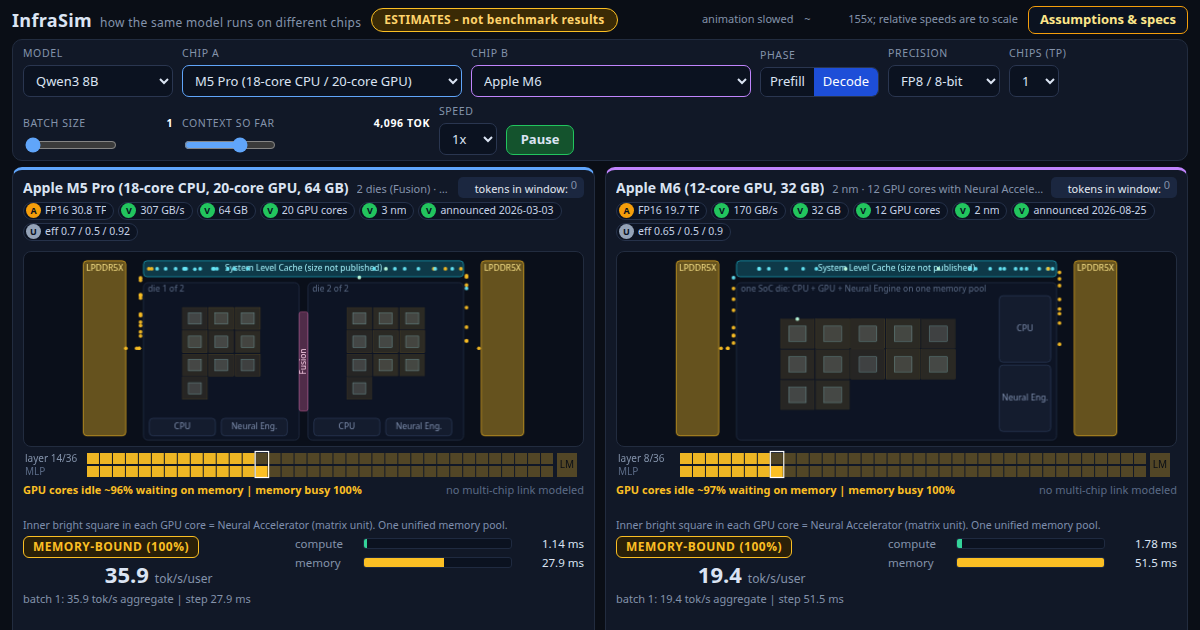
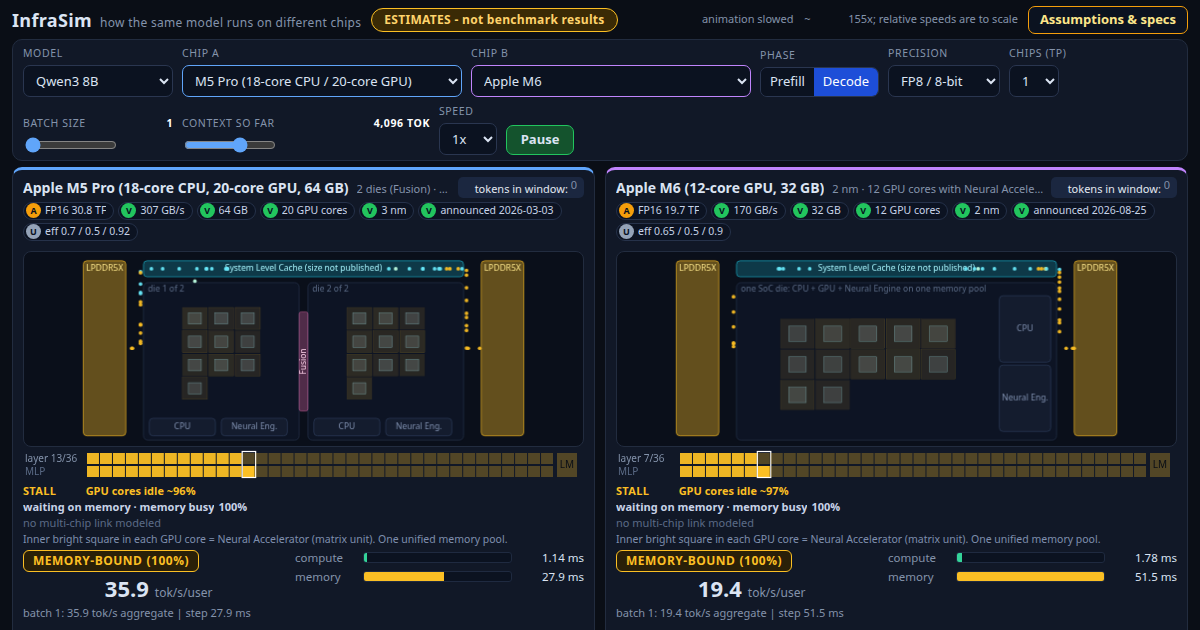
Keep the InfraSim status line on fixed rows. (#62)
Split the stall sentence into a badge, a percentage with a fixed width, a cause line, and a separate link note so the panels do not reflow while the animation runs.

diff --git a/infrasim/app/infrasim.html b/infrasim/app/infrasim.html
@@ -70,9 +70,23 @@ input[type=range]{width:92px;accent-color:#60a5fa}
 canvas{display:block;width:100%}
 .cv{background:#0a0f1a;border:1px solid var(--line);border-radius:8px;margin-top:5px}
 .strip{margin-top:3px}
-.status{font-size:11px;font-weight:700;height:34px;margin-top:3px;display:flex;justify-content:space-between;align-items:flex-start;gap:8px;overflow:hidden;flex:none;font-variant-numeric:tabular-nums}
-.status .st{flex:1;min-width:0;overflow:hidden;display:-webkit-box;-webkit-line-clamp:2;-webkit-box-orient:vertical}
-.status .ic{flex:none;max-width:46%;font-weight:500;color:#5b6b86;white-space:nowrap;overflow:hidden;text-overflow:ellipsis}
+.status{height:48px;margin-top:3px;display:flex;flex-direction:column;overflow:hidden;flex:none;font-size:11px;font-weight:700;line-height:16px;font-variant-numeric:tabular-nums}
+.st-row,.st-cause,.st-link{height:16px;line-height:16px;white-space:nowrap;overflow:hidden;text-overflow:ellipsis;flex:none}
+.st-row{display:flex;align-items:baseline;gap:6px;min-width:0}
+.st-badge{flex:none;display:inline-block;width:9ch;white-space:nowrap;overflow:hidden;letter-spacing:.3px}
+.st-badge.dim{opacity:0}
+.st-main{display:flex;align-items:baseline;min-width:0;flex:1}
+.st-phrase{flex:0 1 auto;min-width:0;white-space:nowrap;overflow:hidden;text-overflow:ellipsis}
+.st-pct,.st-cause-pct{flex:none;display:inline-block;width:5ch;text-align:left;font-variant-numeric:tabular-nums;white-space:nowrap}
+.st-pct:empty,.st-cause-pct:empty{width:0}
+.st-cause{display:flex;align-items:baseline;gap:4px;min-width:0;font-weight:600;color:#c8d3e8}
+.st-cause-txt,.st-cause-tail{min-width:0;white-space:nowrap;overflow:hidden;text-overflow:ellipsis}
+.st-cause-txt{flex:0 1 auto}
+.st-cause-tail{flex:1 1 auto}
+.st-link{display:flex;align-items:baseline;gap:8px;min-width:0;font-weight:500;color:#5b6b86}
+.st-link-name{flex:1;min-width:0;white-space:nowrap;overflow:hidden;text-overflow:ellipsis}
+.st-link-pct{flex:none;width:12ch;text-align:right;font-variant-numeric:tabular-nums;white-space:nowrap;visibility:hidden}
+.st-link-pct.on{visibility:visible;color:#f472b6}
 .chipnote{font-size:10.5px;color:#7f8fae;height:16px;line-height:16px;white-space:nowrap;overflow:hidden;text-overflow:ellipsis;flex:none}
 .stats{margin-top:3px;flex:none}
 .resultslot{position:relative}
@@ -193,7 +207,7 @@ pre.formulas{overflow-x:auto;background:#080d17;border:1px solid #1f2a40;border-
   .ptitle b{max-width:100%}
   .ptitle span{flex-basis:100%;white-space:normal;order:3;display:-webkit-box;-webkit-line-clamp:2;-webkit-box-orient:vertical}
   .tokc{margin-left:auto}
-  .status{height:54px}
+  .status{height:48px}
   .big{font-size:21px}
   .ribbon{top:12px;right:-40px;font-size:9px}
 }
@@ -566,7 +580,8 @@ function mkSide(key){
   const side={key,color:key==='A'?'#60a5fa':'#c084fc',prog:0,done:false,parts:[],acc:0,flash:null,ph:null,layout:null,chipId:null,sel:null};
   const p=$('p'+key);
   p.innerHTML='<div class="ribbon" aria-hidden="true">SPECULATIVE PROJECTION</div><div class="ptitle"><b></b><span></span><em class="tokc" aria-hidden="true">tokens in window: <span class="tokc-n">0</span></em></div>'+
-   '<div class="pills"></div><div class="pdetail"></div><canvas class="cv"></canvas><canvas class="strip"></canvas><div class="status"><span class="st"></span><span class="ic"></span></div><div class="chipnote"></div>'+
+   '<div class="pills"></div><div class="pdetail"></div><canvas class="cv"></canvas><canvas class="strip"></canvas>'+
+   '<div class="status"><div class="st-row"><span class="st-badge">STALL</span><span class="st-main"><span class="st-phrase"></span><span class="st-pct">100%</span></span></div><div class="st-cause"><span class="st-cause-txt"></span><span class="st-cause-pct">100%</span><span class="st-cause-tail"></span></div><div class="st-link"><span class="st-link-name">no multi-chip link modeled</span><span class="st-link-pct">100% of step</span></div></div><div class="chipnote"></div>'+
    '<div class="stats"><div class="resultslot">'+
    '<div class="rview final"><div class="l"><span class="badge"><span class="bd-name"></span><span class="bd-pct"></span></span><div class="big"><span class="n">0</span><small class="unit"></small><small class="hyp"> (hypothetical)</small></div><div class="sub s1"></div><div class="rng"><div class="rt"></div><div class="rtrack"><div class="rband"></div><div class="rmid"></div><div class="rceil"></div></div></div></div>'+
    '<div class="bars">'+
@@ -791,16 +806,23 @@ function drawSide(s,tm){
     ctx.fillStyle=f<0.28?'rgba(251,191,36,.95)':(f<0.62?'rgba(103,232,249,.95)':'rgba(190,255,225,.95)');
     ctx.globalAlpha=r.oom?0.45:1;ctx.beginPath();ctx.arc(x,y,1.7/Math.max(0.6,sc*1.2)+0.6,0,6.283);ctx.fill();ctx.globalAlpha=1;
   }
-  // HTML status line (readable at any size)
-  let msg,mc;
-  if(r.oom){msg='X OOM: weights + KV do not fit, would not run';mc='#fca5a5';}
-  else if(s.done){msg='done in '+fmtT(r.total)+' - waiting for the other chip';mc='#8493ab';}
-  else if(sg.tm>=sg.tc){const stall=Math.round((1-cu)*100);msg=((tm*2.2)%2<1.3?'STALL ':'')+c.unitName+'s idle ~'+stall+'% waiting on memory | memory busy 100%';mc='#fbbf24';}
-  else {msg='COMPUTE-BOUND: '+c.unitName+'s ~'+Math.round(cu*100)+'% busy | memory busy '+Math.round(mu*100)+'% (headroom)';mc='#34d399';}
-  const stEl=s.root.querySelector('.st'),icEl=s.root.querySelector('.status .ic');
-  if(stEl._m!==msg){stEl._m=msg;stEl.textContent=msg;stEl.style.color=mc;}
-  const icm=(c.ic?c.icName+' '+c.ic+' GB/s':'no multi-chip link modeled')+(commGlow>0.05?'  '+Math.round(commGlow*100)+'% of step':'');
-  if(icEl._m!==icm){icEl._m=icm;icEl.textContent=icm;icEl.style.color=commGlow>0.05?'#f472b6':'';}
+  // Fixed status rows. The badge blinks with opacity so the phrase never shifts, and the link note stays on its own row.
+  const put=(el,v)=>{if(el.textContent!==v)el.textContent=v;};
+  const badge=s.root.querySelector('.st-badge'),phrase=s.root.querySelector('.st-phrase'),pct=s.root.querySelector('.st-pct');
+  const cause=s.root.querySelector('.st-cause-txt'),causePct=s.root.querySelector('.st-cause-pct'),causeTail=s.root.querySelector('.st-cause-tail');
+  let badgeText,phraseText,pctText,causeText,causePctText,causeTailText,mc;
+  if(r.oom){badgeText='OOM';phraseText='weights + KV do not fit';pctText='';causeText='would not run';causePctText='';causeTailText='';mc='#fca5a5';}
+  else if(s.done){badgeText='DONE';phraseText='done in '+fmtT(r.total);pctText='';causeText='waiting for the other chip';causePctText='';causeTailText='';mc='#8493ab';}
+  else if(sg.tm>=sg.tc){badgeText='STALL';phraseText=c.unitName+'s idle ~';pctText=Math.round((1-cu)*100)+'%';causeText='waiting on memory · memory busy';causePctText='100%';causeTailText='';mc='#fbbf24';}
+  else {badgeText='COMPUTE';phraseText=c.unitName+'s busy ~';pctText=Math.round(cu*100)+'%';causeText='memory busy';causePctText=Math.round(mu*100)+'%';causeTailText='· headroom';mc='#34d399';}
+  put(badge,badgeText);put(phrase,phraseText);put(pct,pctText);put(cause,causeText);put(causePct,causePctText);put(causeTail,causeTailText);
+  badge.classList.toggle('dim', badgeText==='STALL' && (tm*2.2)%2>=1.3);
+  s.root.querySelector('.st-row').style.color=mc;
+  const linkName=s.root.querySelector('.st-link-name'),linkPct=s.root.querySelector('.st-link-pct');
+  put(linkName, c.ic ? c.icName+' '+c.ic+' GB/s' : 'no multi-chip link modeled');
+  const showComm=commGlow>0.05;
+  put(linkPct, showComm ? Math.round(commGlow*100)+'% of step' : '100% of step');
+  linkPct.classList.toggle('on', showComm);
   drawStrip(s,cur,tm);
 }
 function drawStrip(s,cur,tm){

diff --git a/infrasim/index.html b/infrasim/index.html
@@ -70,9 +70,23 @@ input[type=range]{width:92px;accent-color:#60a5fa}
 canvas{display:block;width:100%}
 .cv{background:#0a0f1a;border:1px solid var(--line);border-radius:8px;margin-top:5px}
 .strip{margin-top:3px}
-.status{font-size:11px;font-weight:700;height:34px;margin-top:3px;display:flex;justify-content:space-between;align-items:flex-start;gap:8px;overflow:hidden;flex:none;font-variant-numeric:tabular-nums}
-.status .st{flex:1;min-width:0;overflow:hidden;display:-webkit-box;-webkit-line-clamp:2;-webkit-box-orient:vertical}
-.status .ic{flex:none;max-width:46%;font-weight:500;color:#5b6b86;white-space:nowrap;overflow:hidden;text-overflow:ellipsis}
+.status{height:48px;margin-top:3px;display:flex;flex-direction:column;overflow:hidden;flex:none;font-size:11px;font-weight:700;line-height:16px;font-variant-numeric:tabular-nums}
+.st-row,.st-cause,.st-link{height:16px;line-height:16px;white-space:nowrap;overflow:hidden;text-overflow:ellipsis;flex:none}
+.st-row{display:flex;align-items:baseline;gap:6px;min-width:0}
+.st-badge{flex:none;display:inline-block;width:9ch;white-space:nowrap;overflow:hidden;letter-spacing:.3px}
+.st-badge.dim{opacity:0}
+.st-main{display:flex;align-items:baseline;min-width:0;flex:1}
+.st-phrase{flex:0 1 auto;min-width:0;white-space:nowrap;overflow:hidden;text-overflow:ellipsis}
+.st-pct,.st-cause-pct{flex:none;display:inline-block;width:5ch;text-align:left;font-variant-numeric:tabular-nums;white-space:nowrap}
+.st-pct:empty,.st-cause-pct:empty{width:0}
+.st-cause{display:flex;align-items:baseline;gap:4px;min-width:0;font-weight:600;color:#c8d3e8}
+.st-cause-txt,.st-cause-tail{min-width:0;white-space:nowrap;overflow:hidden;text-overflow:ellipsis}
+.st-cause-txt{flex:0 1 auto}
+.st-cause-tail{flex:1 1 auto}
+.st-link{display:flex;align-items:baseline;gap:8px;min-width:0;font-weight:500;color:#5b6b86}
+.st-link-name{flex:1;min-width:0;white-space:nowrap;overflow:hidden;text-overflow:ellipsis}
+.st-link-pct{flex:none;width:12ch;text-align:right;font-variant-numeric:tabular-nums;white-space:nowrap;visibility:hidden}
+.st-link-pct.on{visibility:visible;color:#f472b6}
 .chipnote{font-size:10.5px;color:#7f8fae;height:16px;line-height:16px;white-space:nowrap;overflow:hidden;text-overflow:ellipsis;flex:none}
 .stats{margin-top:3px;flex:none}
 .resultslot{position:relative}
@@ -193,7 +207,7 @@ pre.formulas{overflow-x:auto;background:#080d17;border:1px solid #1f2a40;border-
   .ptitle b{max-width:100%}
   .ptitle span{flex-basis:100%;white-space:normal;order:3;display:-webkit-box;-webkit-line-clamp:2;-webkit-box-orient:vertical}
   .tokc{margin-left:auto}
-  .status{height:54px}
+  .status{height:48px}
   .big{font-size:21px}
   .ribbon{top:12px;right:-40px;font-size:9px}
 }
@@ -566,7 +580,8 @@ function mkSide(key){
   const side={key,color:key==='A'?'#60a5fa':'#c084fc',prog:0,done:false,parts:[],acc:0,flash:null,ph:null,layout:null,chipId:null,sel:null};
   const p=$('p'+key);
   p.innerHTML='<div class="ribbon" aria-hidden="true">SPECULATIVE PROJECTION</div><div class="ptitle"><b></b><span></span><em class="tokc" aria-hidden="true">tokens in window: <span class="tokc-n">0</span></em></div>'+
-   '<div class="pills"></div><div class="pdetail"></div><canvas class="cv"></canvas><canvas class="strip"></canvas><div class="status"><span class="st"></span><span class="ic"></span></div><div class="chipnote"></div>'+
+   '<div class="pills"></div><div class="pdetail"></div><canvas class="cv"></canvas><canvas class="strip"></canvas>'+
+   '<div class="status"><div class="st-row"><span class="st-badge">STALL</span><span class="st-main"><span class="st-phrase"></span><span class="st-pct">100%</span></span></div><div class="st-cause"><span class="st-cause-txt"></span><span class="st-cause-pct">100%</span><span class="st-cause-tail"></span></div><div class="st-link"><span class="st-link-name">no multi-chip link modeled</span><span class="st-link-pct">100% of step</span></div></div><div class="chipnote"></div>'+
    '<div class="stats"><div class="resultslot">'+
    '<div class="rview final"><div class="l"><span class="badge"><span class="bd-name"></span><span class="bd-pct"></span></span><div class="big"><span class="n">0</span><small class="unit"></small><small class="hyp"> (hypothetical)</small></div><div class="sub s1"></div><div class="rng"><div class="rt"></div><div class="rtrack"><div class="rband"></div><div class="rmid"></div><div class="rceil"></div></div></div></div>'+
    '<div class="bars">'+
@@ -791,16 +806,23 @@ function drawSide(s,tm){
     ctx.fillStyle=f<0.28?'rgba(251,191,36,.95)':(f<0.62?'rgba(103,232,249,.95)':'rgba(190,255,225,.95)');
     ctx.globalAlpha=r.oom?0.45:1;ctx.beginPath();ctx.arc(x,y,1.7/Math.max(0.6,sc*1.2)+0.6,0,6.283);ctx.fill();ctx.globalAlpha=1;
   }
-  // HTML status line (readable at any size)
-  let msg,mc;
-  if(r.oom){msg='X OOM: weights + KV do not fit, would not run';mc='#fca5a5';}
-  else if(s.done){msg='done in '+fmtT(r.total)+' - waiting for the other chip';mc='#8493ab';}
-  else if(sg.tm>=sg.tc){const stall=Math.round((1-cu)*100);msg=((tm*2.2)%2<1.3?'STALL ':'')+c.unitName+'s idle ~'+stall+'% waiting on memory | memory busy 100%';mc='#fbbf24';}
-  else {msg='COMPUTE-BOUND: '+c.unitName+'s ~'+Math.round(cu*100)+'% busy | memory busy '+Math.round(mu*100)+'% (headroom)';mc='#34d399';}
-  const stEl=s.root.querySelector('.st'),icEl=s.root.querySelector('.status .ic');
-  if(stEl._m!==msg){stEl._m=msg;stEl.textContent=msg;stEl.style.color=mc;}
-  const icm=(c.ic?c.icName+' '+c.ic+' GB/s':'no multi-chip link modeled')+(commGlow>0.05?'  '+Math.round(commGlow*100)+'% of step':'');
-  if(icEl._m!==icm){icEl._m=icm;icEl.textContent=icm;icEl.style.color=commGlow>0.05?'#f472b6':'';}
+  // Fixed status rows. The badge blinks with opacity so the phrase never shifts, and the link note stays on its own row.
+  const put=(el,v)=>{if(el.textContent!==v)el.textContent=v;};
+  const badge=s.root.querySelector('.st-badge'),phrase=s.root.querySelector('.st-phrase'),pct=s.root.querySelector('.st-pct');
+  const cause=s.root.querySelector('.st-cause-txt'),causePct=s.root.querySelector('.st-cause-pct'),causeTail=s.root.querySelector('.st-cause-tail');
+  let badgeText,phraseText,pctText,causeText,causePctText,causeTailText,mc;
+  if(r.oom){badgeText='OOM';phraseText='weights + KV do not fit';pctText='';causeText='would not run';causePctText='';causeTailText='';mc='#fca5a5';}
+  else if(s.done){badgeText='DONE';phraseText='done in '+fmtT(r.total);pctText='';causeText='waiting for the other chip';causePctText='';causeTailText='';mc='#8493ab';}
+  else if(sg.tm>=sg.tc){badgeText='STALL';phraseText=c.unitName+'s idle ~';pctText=Math.round((1-cu)*100)+'%';causeText='waiting on memory · memory busy';causePctText='100%';causeTailText='';mc='#fbbf24';}
+  else {badgeText='COMPUTE';phraseText=c.unitName+'s busy ~';pctText=Math.round(cu*100)+'%';causeText='memory busy';causePctText=Math.round(mu*100)+'%';causeTailText='· headroom';mc='#34d399';}
+  put(badge,badgeText);put(phrase,phraseText);put(pct,pctText);put(cause,causeText);put(causePct,causePctText);put(causeTail,causeTailText);
+  badge.classList.toggle('dim', badgeText==='STALL' && (tm*2.2)%2>=1.3);
+  s.root.querySelector('.st-row').style.color=mc;
+  const linkName=s.root.querySelector('.st-link-name'),linkPct=s.root.querySelector('.st-link-pct');
+  put(linkName, c.ic ? c.icName+' '+c.ic+' GB/s' : 'no multi-chip link modeled');
+  const showComm=commGlow>0.05;
+  put(linkPct, showComm ? Math.round(commGlow*100)+'% of step' : '100% of step');
+  linkPct.classList.toggle('on', showComm);
   drawStrip(s,cur,tm);
 }
 function drawStrip(s,cur,tm){

diff --git a/infrasim/app/src/ui.js b/infrasim/app/src/ui.js
@@ -111,7 +111,8 @@ function mkSide(key){
   const side={key,color:key==='A'?'#60a5fa':'#c084fc',prog:0,done:false,parts:[],acc:0,flash:null,ph:null,layout:null,chipId:null,sel:null};
   const p=$('p'+key);
   p.innerHTML='<div class="ribbon" aria-hidden="true">SPECULATIVE PROJECTION</div><div class="ptitle"><b></b><span></span><em class="tokc" aria-hidden="true">tokens in window: <span class="tokc-n">0</span></em></div>'+
-   '<div class="pills"></div><div class="pdetail"></div><canvas class="cv"></canvas><canvas class="strip"></canvas><div class="status"><span class="st"></span><span class="ic"></span></div><div class="chipnote"></div>'+
+   '<div class="pills"></div><div class="pdetail"></div><canvas class="cv"></canvas><canvas class="strip"></canvas>'+
+   '<div class="status"><div class="st-row"><span class="st-badge">STALL</span><span class="st-main"><span class="st-phrase"></span><span class="st-pct">100%</span></span></div><div class="st-cause"><span class="st-cause-txt"></span><span class="st-cause-pct">100%</span><span class="st-cause-tail"></span></div><div class="st-link"><span class="st-link-name">no multi-chip link modeled</span><span class="st-link-pct">100% of step</span></div></div><div class="chipnote"></div>'+
    '<div class="stats"><div class="resultslot">'+
    '<div class="rview final"><div class="l"><span class="badge"><span class="bd-name"></span><span class="bd-pct"></span></span><div class="big"><span class="n">0</span><small class="unit"></small><small class="hyp"> (hypothetical)</small></div><div class="sub s1"></div><div class="rng"><div class="rt"></div><div class="rtrack"><div class="rband"></div><div class="rmid"></div><div class="rceil"></div></div></div></div>'+
    '<div class="bars">'+
@@ -336,16 +337,23 @@ function drawSide(s,tm){
     ctx.fillStyle=f<0.28?'rgba(251,191,36,.95)':(f<0.62?'rgba(103,232,249,.95)':'rgba(190,255,225,.95)');
     ctx.globalAlpha=r.oom?0.45:1;ctx.beginPath();ctx.arc(x,y,1.7/Math.max(0.6,sc*1.2)+0.6,0,6.283);ctx.fill();ctx.globalAlpha=1;
   }
-  // HTML status line (readable at any size)
-  let msg,mc;
-  if(r.oom){msg='X OOM: weights + KV do not fit, would not run';mc='#fca5a5';}
-  else if(s.done){msg='done in '+fmtT(r.total)+' - waiting for the other chip';mc='#8493ab';}
-  else if(sg.tm>=sg.tc){const stall=Math.round((1-cu)*100);msg=((tm*2.2)%2<1.3?'STALL ':'')+c.unitName+'s idle ~'+stall+'% waiting on memory | memory busy 100%';mc='#fbbf24';}
-  else {msg='COMPUTE-BOUND: '+c.unitName+'s ~'+Math.round(cu*100)+'% busy | memory busy '+Math.round(mu*100)+'% (headroom)';mc='#34d399';}
-  const stEl=s.root.querySelector('.st'),icEl=s.root.querySelector('.status .ic');
-  if(stEl._m!==msg){stEl._m=msg;stEl.textContent=msg;stEl.style.color=mc;}
-  const icm=(c.ic?c.icName+' '+c.ic+' GB/s':'no multi-chip link modeled')+(commGlow>0.05?'  '+Math.round(commGlow*100)+'% of step':'');
-  if(icEl._m!==icm){icEl._m=icm;icEl.textContent=icm;icEl.style.color=commGlow>0.05?'#f472b6':'';}
+  // Fixed status rows. The badge blinks with opacity so the phrase never shifts, and the link note stays on its own row.
+  const put=(el,v)=>{if(el.textContent!==v)el.textContent=v;};
+  const badge=s.root.querySelector('.st-badge'),phrase=s.root.querySelector('.st-phrase'),pct=s.root.querySelector('.st-pct');
+  const cause=s.root.querySelector('.st-cause-txt'),causePct=s.root.querySelector('.st-cause-pct'),causeTail=s.root.querySelector('.st-cause-tail');
+  let badgeText,phraseText,pctText,causeText,causePctText,causeTailText,mc;
+  if(r.oom){badgeText='OOM';phraseText='weights + KV do not fit';pctText='';causeText='would not run';causePctText='';causeTailText='';mc='#fca5a5';}
+  else if(s.done){badgeText='DONE';phraseText='done in '+fmtT(r.total);pctText='';causeText='waiting for the other chip';causePctText='';causeTailText='';mc='#8493ab';}
+  else if(sg.tm>=sg.tc){badgeText='STALL';phraseText=c.unitName+'s idle ~';pctText=Math.round((1-cu)*100)+'%';causeText='waiting on memory · memory busy';causePctText='100%';causeTailText='';mc='#fbbf24';}
+  else {badgeText='COMPUTE';phraseText=c.unitName+'s busy ~';pctText=Math.round(cu*100)+'%';causeText='memory busy';causePctText=Math.round(mu*100)+'%';causeTailText='· headroom';mc='#34d399';}
+  put(badge,badgeText);put(phrase,phraseText);put(pct,pctText);put(cause,causeText);put(causePct,causePctText);put(causeTail,causeTailText);
+  badge.classList.toggle('dim', badgeText==='STALL' && (tm*2.2)%2>=1.3);
+  s.root.querySelector('.st-row').style.color=mc;
+  const linkName=s.root.querySelector('.st-link-name'),linkPct=s.root.querySelector('.st-link-pct');
+  put(linkName, c.ic ? c.icName+' '+c.ic+' GB/s' : 'no multi-chip link modeled');
+  const showComm=commGlow>0.05;
+  put(linkPct, showComm ? Math.round(commGlow*100)+'% of step' : '100% of step');
+  linkPct.classList.toggle('on', showComm);
   drawStrip(s,cur,tm);
 }
 function drawStrip(s,cur,tm){

diff --git a/infrasim/app/src/styles.css b/infrasim/app/src/styles.css
@@ -57,9 +57,23 @@ input[type=range]{width:92px;accent-color:#60a5fa}
 canvas{display:block;width:100%}
 .cv{background:#0a0f1a;border:1px solid var(--line);border-radius:8px;margin-top:5px}
 .strip{margin-top:3px}
-.status{font-size:11px;font-weight:700;height:34px;margin-top:3px;display:flex;justify-content:space-between;align-items:flex-start;gap:8px;overflow:hidden;flex:none;font-variant-numeric:tabular-nums}
-.status .st{flex:1;min-width:0;overflow:hidden;display:-webkit-box;-webkit-line-clamp:2;-webkit-box-orient:vertical}
-.status .ic{flex:none;max-width:46%;font-weight:500;color:#5b6b86;white-space:nowrap;overflow:hidden;text-overflow:ellipsis}
+.status{height:48px;margin-top:3px;display:flex;flex-direction:column;overflow:hidden;flex:none;font-size:11px;font-weight:700;line-height:16px;font-variant-numeric:tabular-nums}
+.st-row,.st-cause,.st-link{height:16px;line-height:16px;white-space:nowrap;overflow:hidden;text-overflow:ellipsis;flex:none}
+.st-row{display:flex;align-items:baseline;gap:6px;min-width:0}
+.st-badge{flex:none;display:inline-block;width:9ch;white-space:nowrap;overflow:hidden;letter-spacing:.3px}
+.st-badge.dim{opacity:0}
+.st-main{display:flex;align-items:baseline;min-width:0;flex:1}
+.st-phrase{flex:0 1 auto;min-width:0;white-space:nowrap;overflow:hidden;text-overflow:ellipsis}
+.st-pct,.st-cause-pct{flex:none;display:inline-block;width:5ch;text-align:left;font-variant-numeric:tabular-nums;white-space:nowrap}
+.st-pct:empty,.st-cause-pct:empty{width:0}
+.st-cause{display:flex;align-items:baseline;gap:4px;min-width:0;font-weight:600;color:#c8d3e8}
+.st-cause-txt,.st-cause-tail{min-width:0;white-space:nowrap;overflow:hidden;text-overflow:ellipsis}
+.st-cause-txt{flex:0 1 auto}
+.st-cause-tail{flex:1 1 auto}
+.st-link{display:flex;align-items:baseline;gap:8px;min-width:0;font-weight:500;color:#5b6b86}
+.st-link-name{flex:1;min-width:0;white-space:nowrap;overflow:hidden;text-overflow:ellipsis}
+.st-link-pct{flex:none;width:12ch;text-align:right;font-variant-numeric:tabular-nums;white-space:nowrap;visibility:hidden}
+.st-link-pct.on{visibility:visible;color:#f472b6}
 .chipnote{font-size:10.5px;color:#7f8fae;height:16px;line-height:16px;white-space:nowrap;overflow:hidden;text-overflow:ellipsis;flex:none}
 .stats{margin-top:3px;flex:none}
 .resultslot{position:relative}
@@ -180,7 +194,7 @@ pre.formulas{overflow-x:auto;background:#080d17;border:1px solid #1f2a40;border-
   .ptitle b{max-width:100%}
   .ptitle span{flex-basis:100%;white-space:normal;order:3;display:-webkit-box;-webkit-line-clamp:2;-webkit-box-orient:vertical}
   .tokc{margin-left:auto}
-  .status{height:54px}
+  .status{height:48px}
   .big{font-size:21px}
   .ribbon{top:12px;right:-40px;font-size:9px}
 }
